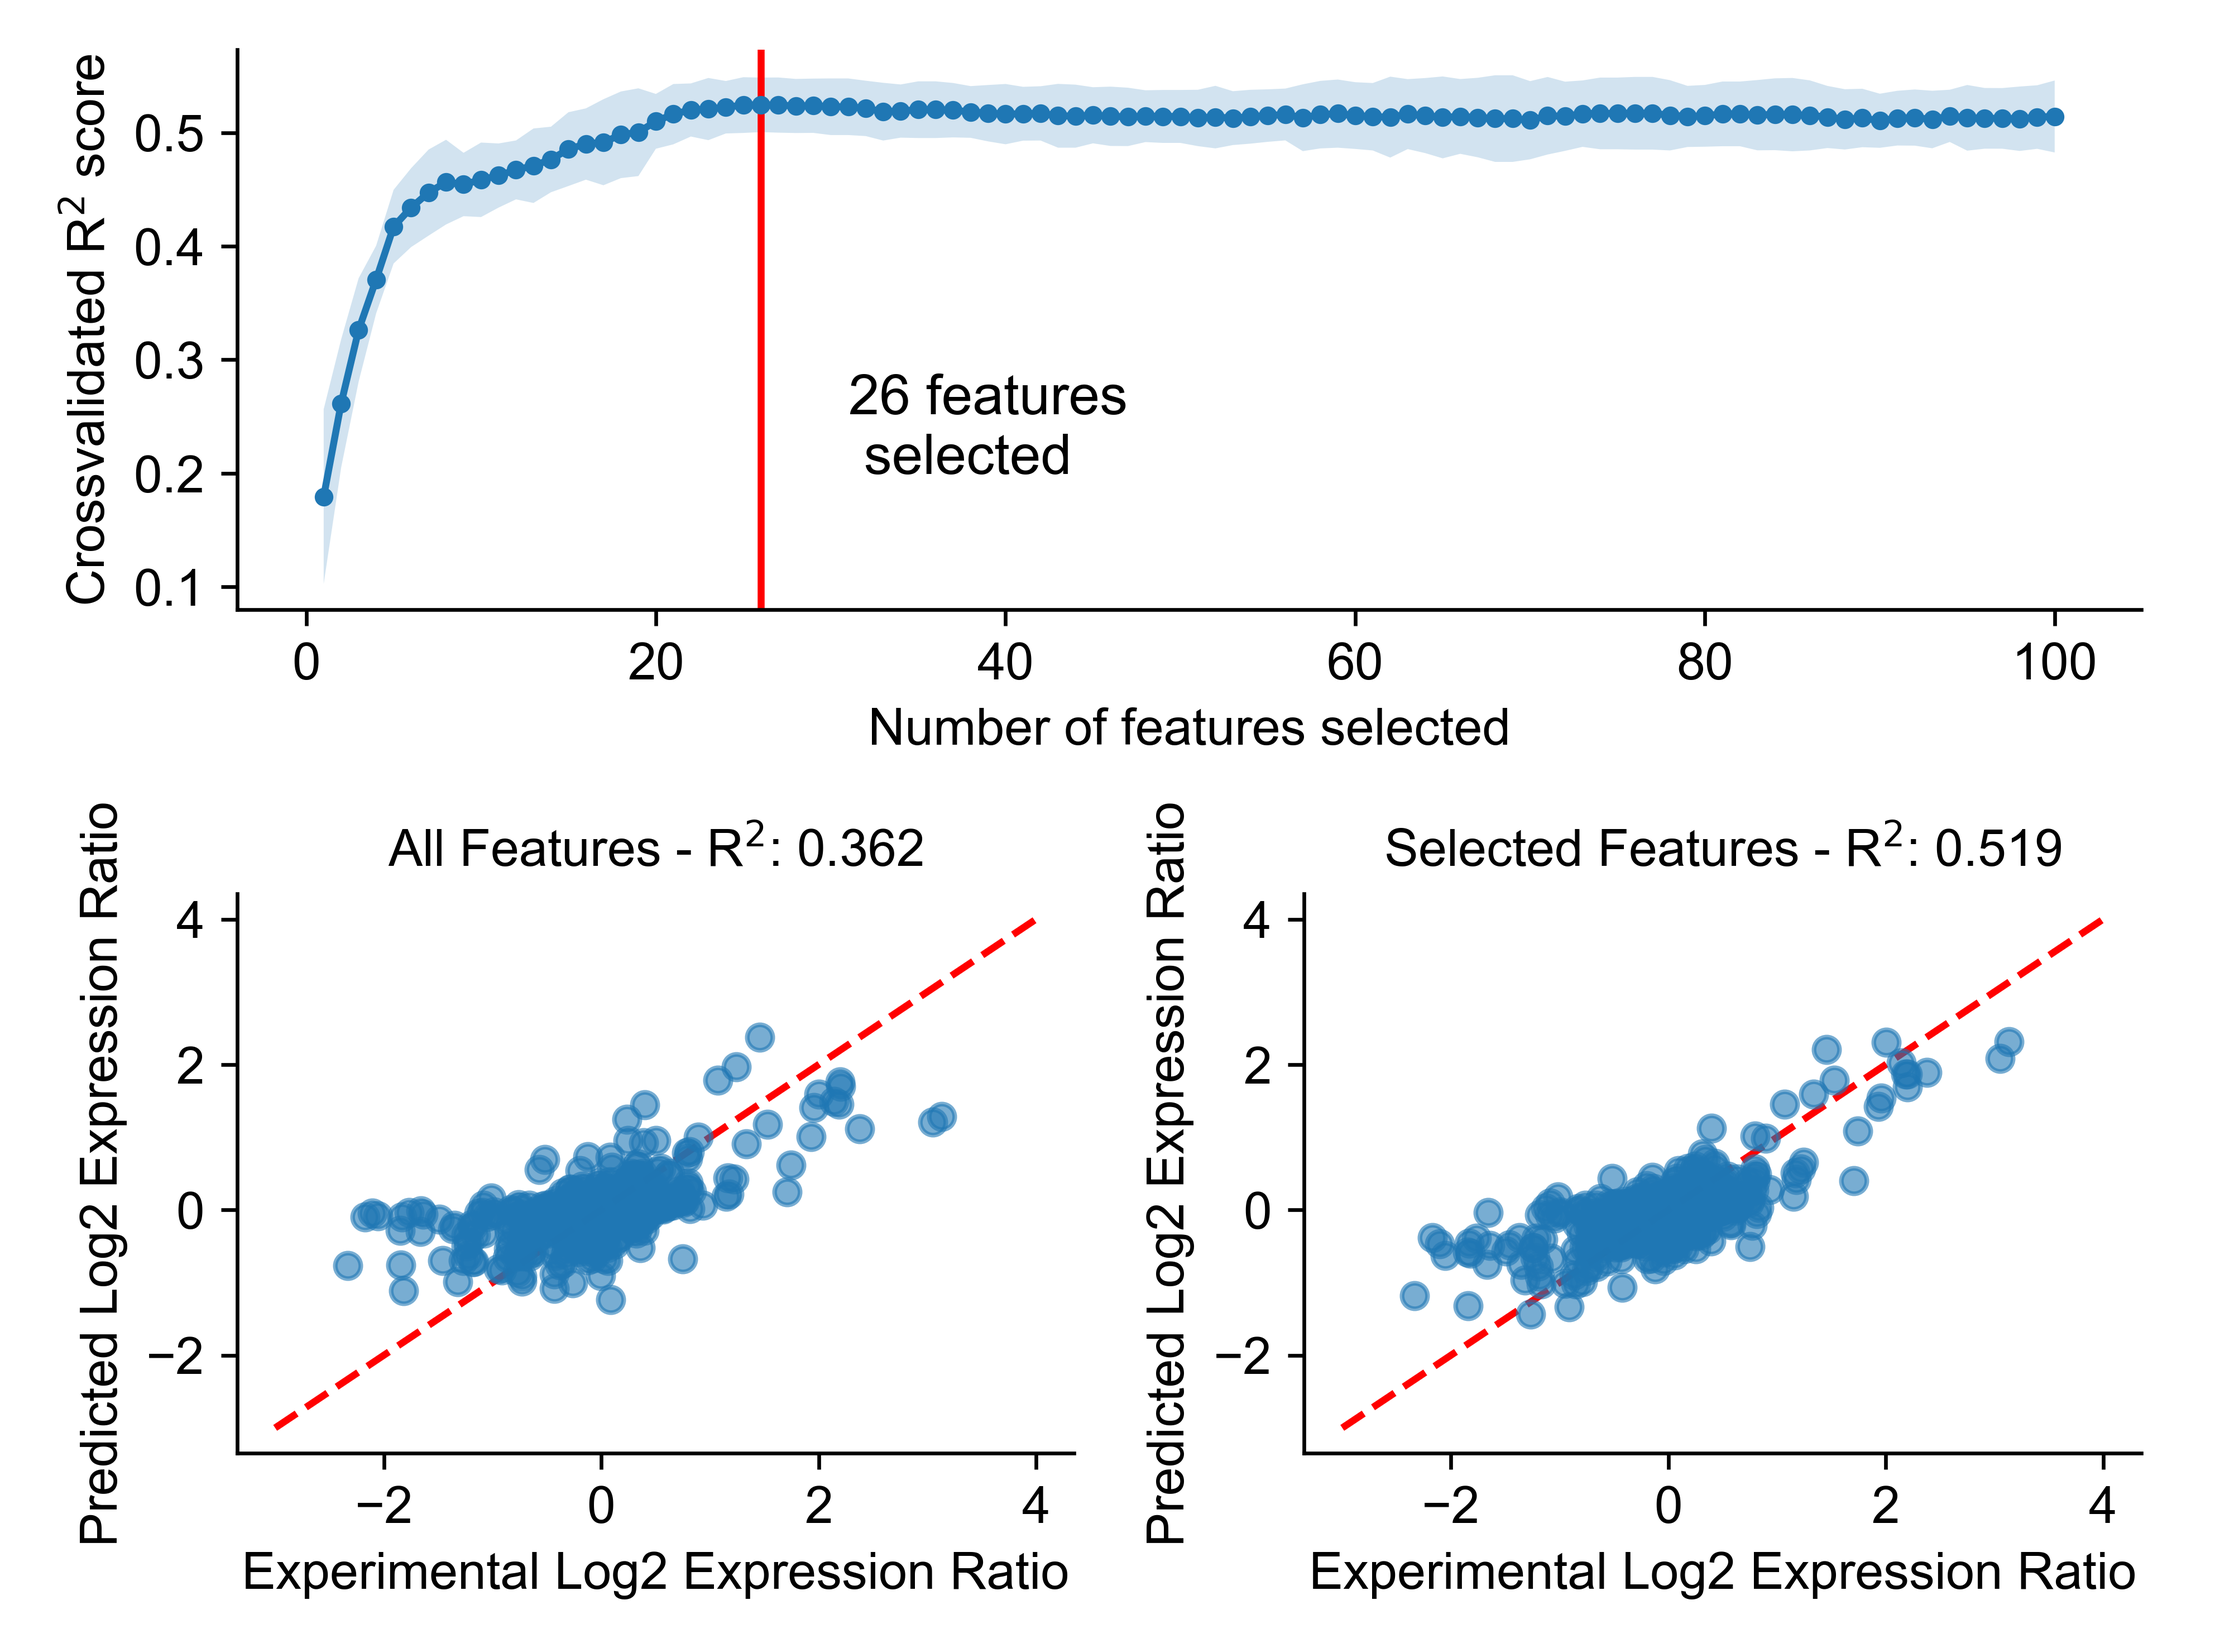
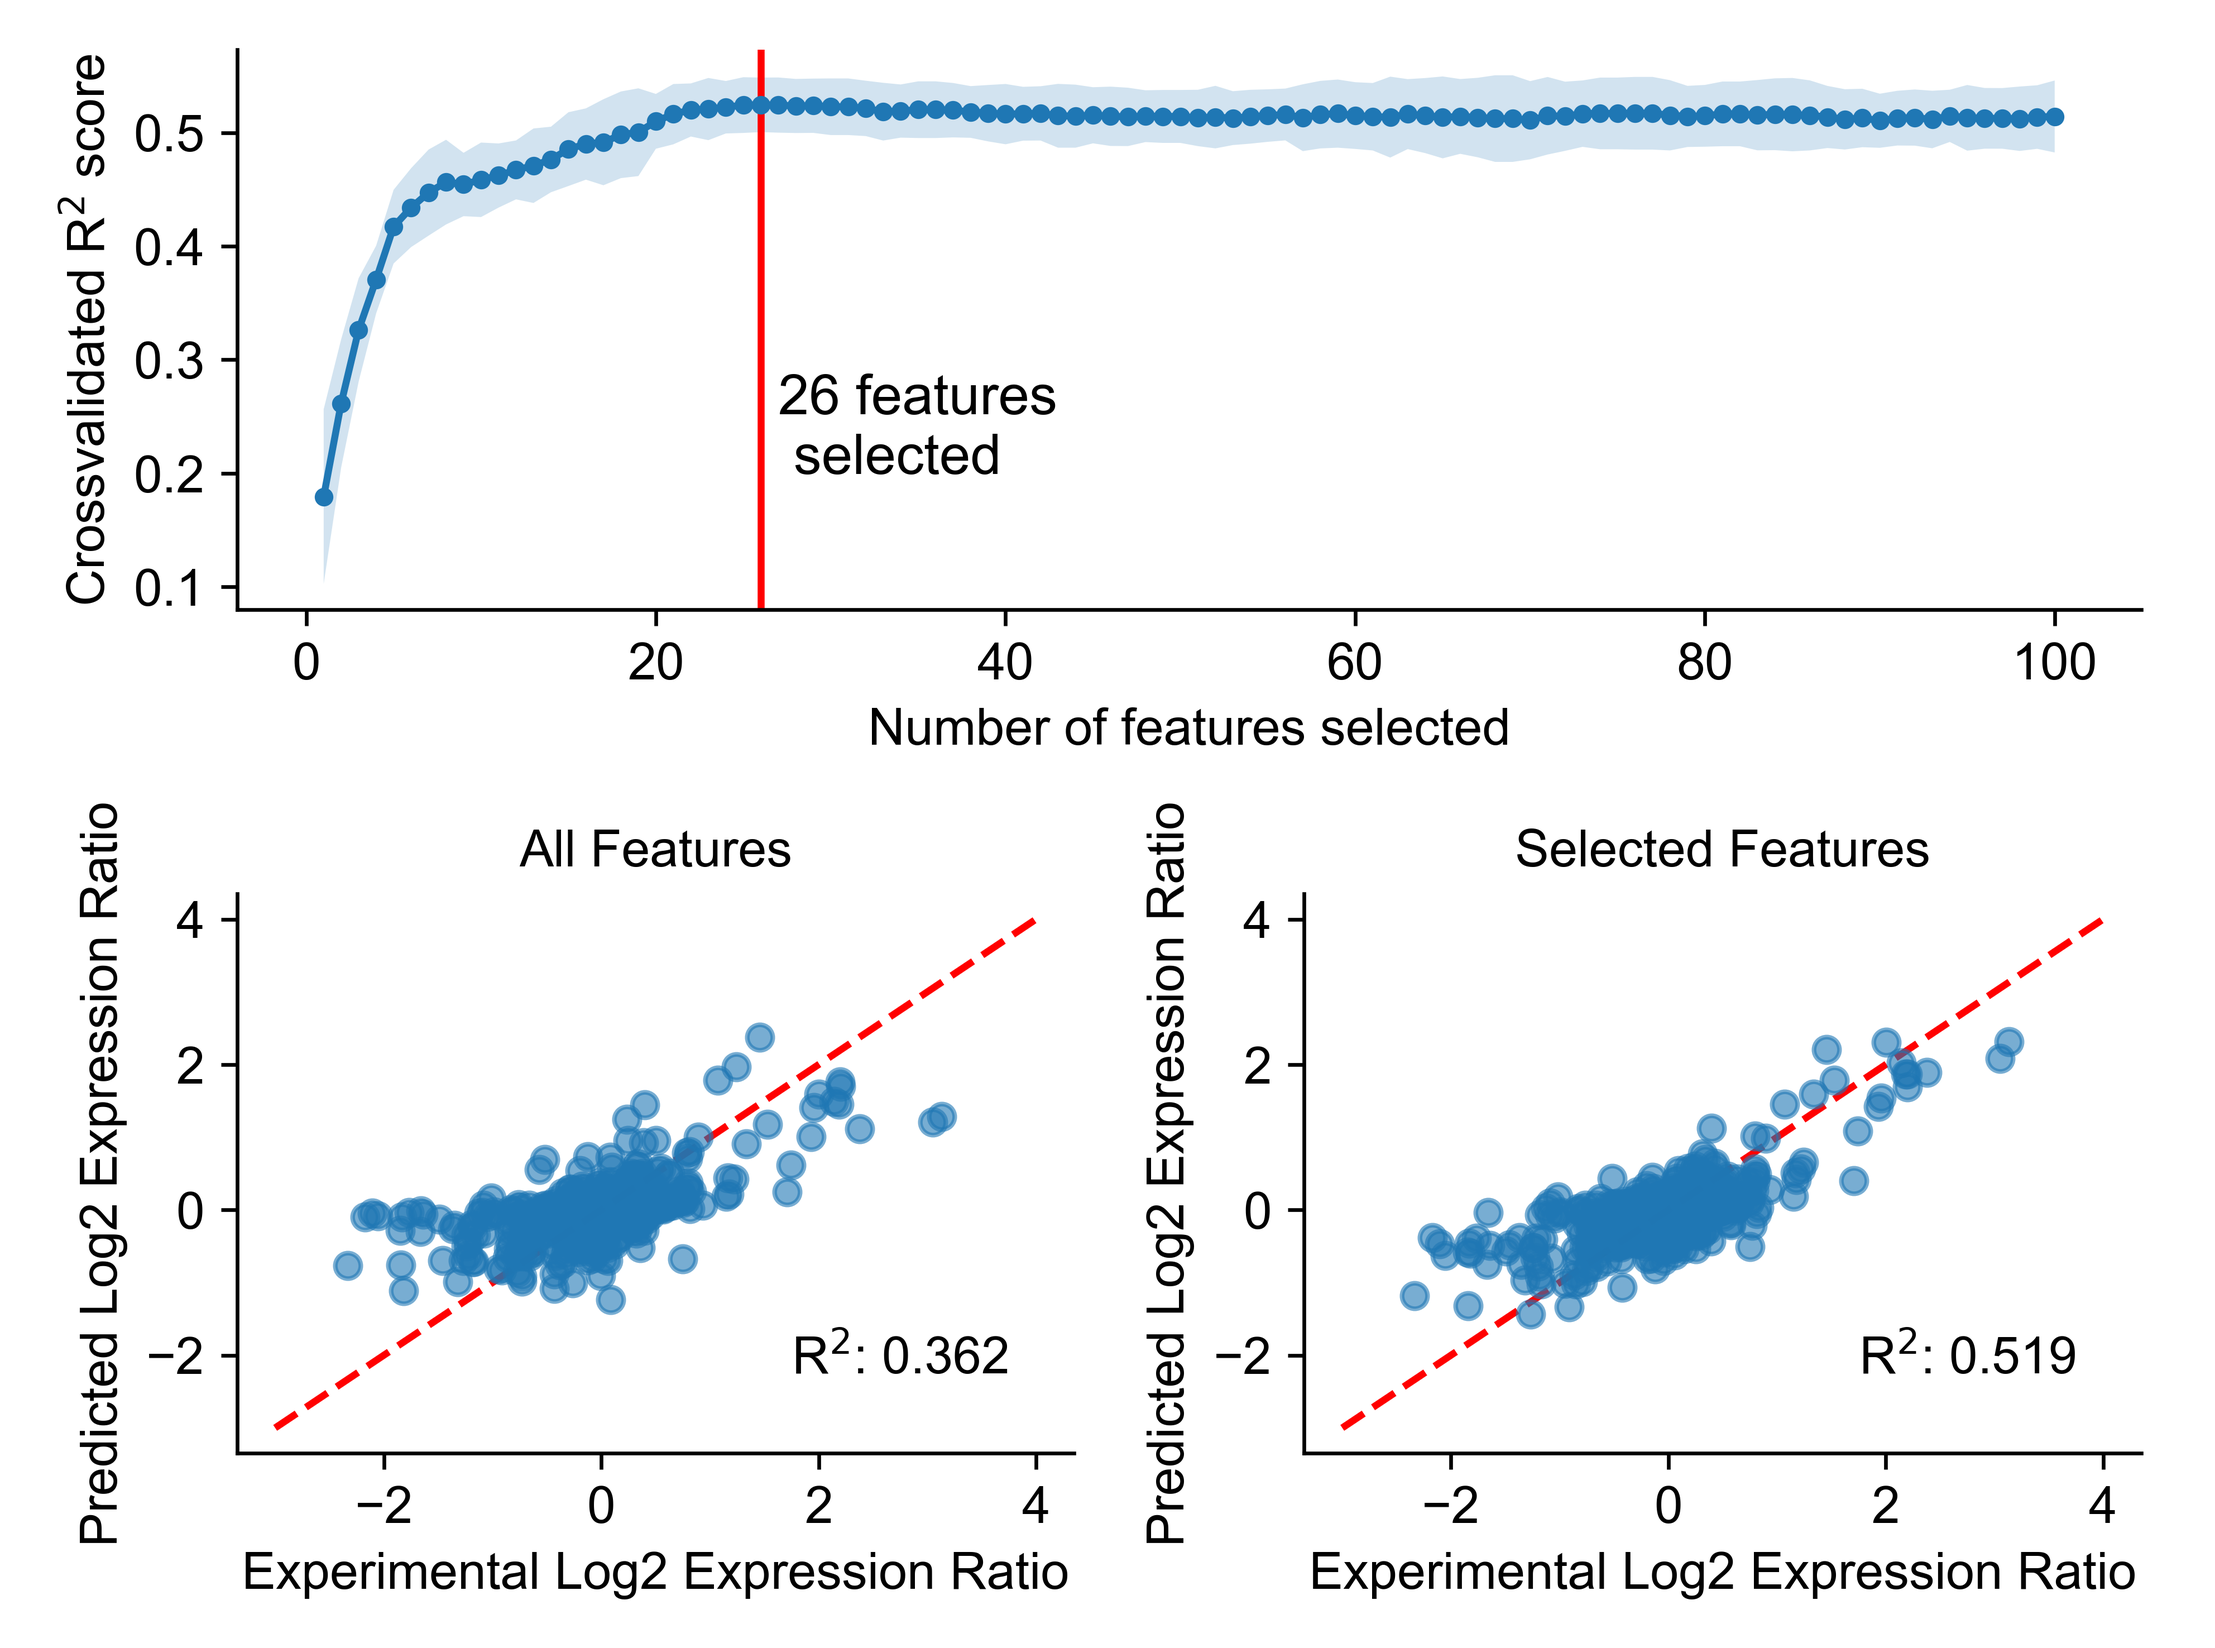
Updated figure creation

diff --git a/Hyena_PlotFeatureSelection.py b/Hyena_PlotFeatureSelection.py
@@ -31,7 +31,7 @@ num_features = scores_sfs['Num_features'].max()
 ax[0].axvline(x = len(selected_features), ymin = 0, ymax = 1, linewidth = 1.5, color = 'red')
 ax[0].plot(scores_sfs['Num_features'], scores_sfs['Avg_score'], linewidth = 1.5, marker = 'o', markersize = 3)
 ax[0].fill_between(scores_sfs['Num_features'], scores_sfs['Avg_score'] - scores_sfs['Std_dev'], scores_sfs['Avg_score'] + scores_sfs['Std_dev'], alpha=0.2)
-ax[0].text(len(selected_features) + 5, 0.2, str(len(selected_features)) + ' features\n selected', fontsize = 12)
+ax[0].text(len(selected_features) + 1, 0.2, str(len(selected_features)) + ' features\n selected', fontsize = 12)
 ax[0].set_ylabel('Crossvalidated R$^2$ score', fontSize = 11)
 ax[0].set_xlabel('Number of features selected', fontSize = 11)
 ax[0].xaxis.set_tick_params(labelsize = 11)
@@ -49,7 +49,8 @@ for name, i in scatter_info.items():
     ax[i].scatter(predictions.loc[:,'exp_data'], predictions.iloc[:, i], s = 30, zorder = 1, alpha = 0.6, linewidth = 1)
     ax[i].set_xlabel('Experimental Log2 Expression Ratio', fontSize = 11)
     ax[i].set_ylabel('Predicted Log2 Expression Ratio', fontSize = 11)
-    ax[i].set_title(name + ' - R$^2$: ' + predictions.columns[i].split('_')[-1], fontSize = 11)
+    ax[i].set_title(name, fontSize = 11)
+    ax[i].text(1.75, -2.25, 'R$^2$: ' + predictions.columns[i].split('_')[-1], fontsize = 11)
     ax[i].xaxis.set_tick_params(labelsize = 11)
     ax[i].yaxis.set_tick_params(labelsize = 11)
     ax[i].spines['top'].set_visible(False)

diff --git a/Hyena_Analyse_FeatureImportance.py b/Hyena_Analyse_FeatureImportance.py
@@ -16,6 +16,12 @@ model = pickle.load(open('Results/' + model_name + '.pkl', 'rb'))
 
 #get feature importance and convert into list
 feature_importance = [[key, value] for key, value in model.get_booster().get_score(importance_type='gain').items()]
+
+#add features with 0 importance
+for feature in model.get_booster().feature_names:
+    if feature not in [x[0] for x in feature_importance]:
+        feature_importance.append([feature, 0])
+        
 feature_importance.sort(key = lambda x: x[1], reverse = False)
 
 # #Plot feature importance
@@ -44,8 +50,8 @@ for key in key_list:
     feature_importance_split['interval'][new_key] = feature_importance_split['interval'].pop(key)
     
 #change feature type name
-feature_importance_split['feature type']['Pos > zero'] = feature_importance_split['feature type'].pop('az')
-feature_importance_split['feature type']['Pos < zero'] = feature_importance_split['feature type'].pop('bz')
+feature_importance_split['feature type']['Count > 0'] = feature_importance_split['feature type'].pop('az')
+feature_importance_split['feature type']['Count < 0'] = feature_importance_split['feature type'].pop('bz')
 
 #convert dict into list for sorting
 feature_importance_split_list = {x : [] for x in feature_importance_split.keys()}

diff --git a/Hyena_Analyse_TFBinding.py b/Hyena_Analyse_TFBinding.py
@@ -79,9 +79,10 @@ for group in tf_groups_color.keys():
     tf_data_overview_tmp = tf_data_overview.loc[tf_data_overview.loc[:, 'TF group'] == group]
     plt.barh(tf_data_overview_tmp.loc[:,'Plot position'], tf_data_overview_tmp.loc[:, 'Percent both bound'], color = tf_groups_color[group], label = group)
 plt.yticks(range(len(tf_data_overview.index)), tf_data_overview.index)
-plt.xlabel('% of genes with tf reads\n in both conditions', fontSize = 11)
+plt.xlabel('Genes with binding in both conditions', fontSize = 11)
 ax.xaxis.set_tick_params(labelsize = 11)
 ax.yaxis.set_tick_params(labelsize = 11)
+ax.set_xticklabels(['0%', '50%', '100%'])
 ax.spines['top'].set_visible(False)
 ax.spines['right'].set_visible(False)
 plt.ylim(-0.5,20.5)
